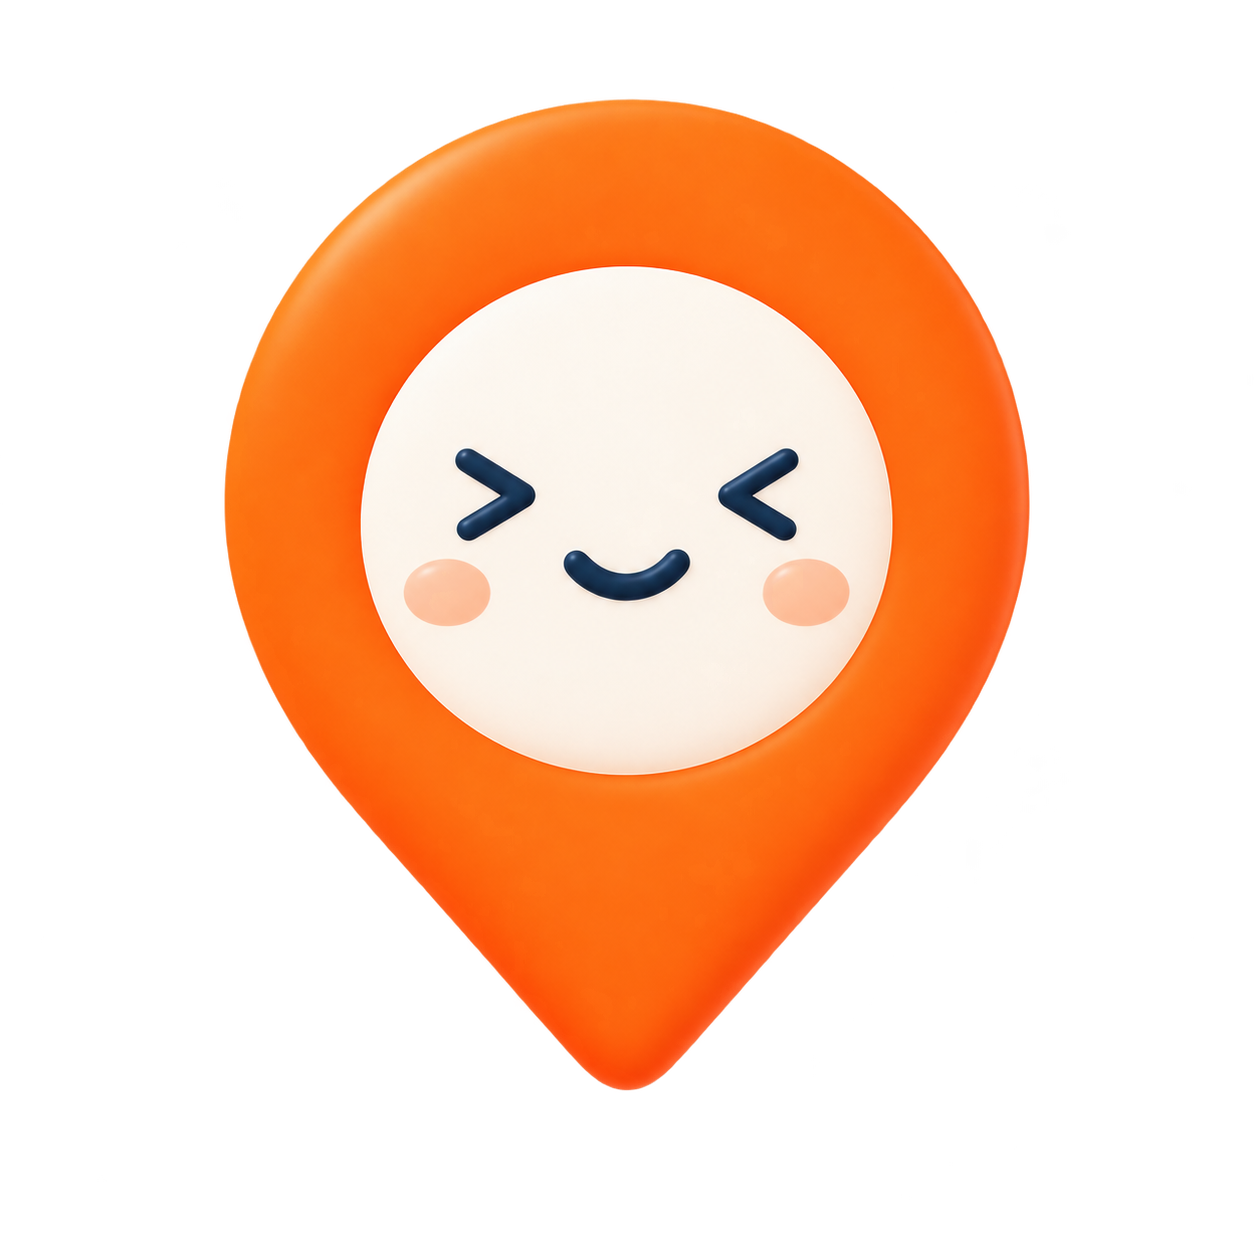
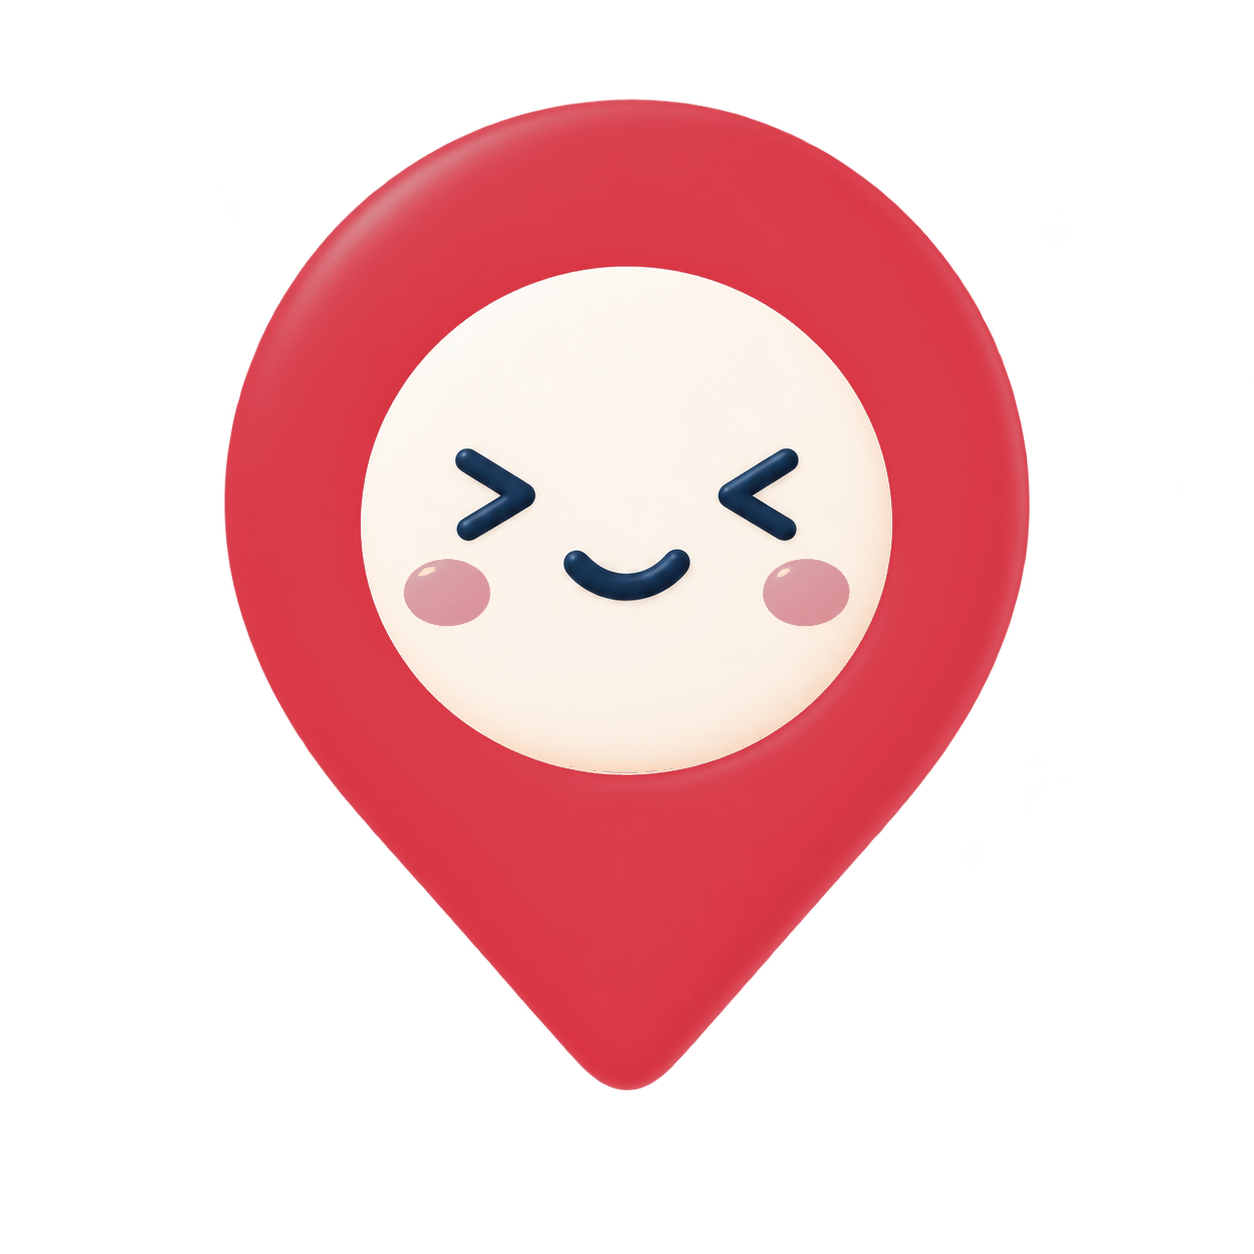
[S15P21E201-1343] fix: [FE] 그림에 구워진 옛 오렌지 — 마스코트는 다시 뽑고, 빈 화면 아이콘은 토큰이 덧입힌다
## 검사가 코드만 본다

배색 검사는 `.ts`·`.tsx` 만 읽는다. **그림 안에 구워진 색은 못 본다.** 그래서
오늘 로고의 핀은 동백 빨강으로 다시 뽑았는데, **같은 핀 모양인 마스코트는 오렌지로
남아 있었다.** 한 화면에 빨간 핀과 주황 핀이 같이 뜬다.

눈으로도 잘 안 잡힌다 — 둘이 한 화면에 나란히 오는 자리가 드물고, 따로 보면 둘 다
멀쩡해 보인다.

## 그림 29개를 전부 재서 고를 것을 갈랐다

옛 오렌지 대역이 섞인 그림이 29개였는데, **대부분은 음식 사진과 삽화**다. 그건
배색이 아니라 피사체의 색이라 건드리지 않는다. 배색인 것은 둘뿐이었다.

  마스코트 셋            몸통이 옛 오렌지 핀 (#FB6A10)
  내 여행 빈 화면 아이콘  픽셀 100%가 옛 브랜드 오렌지 (#F26532)

## 고치는 방법을 둘로 나눈 이유

**아이콘은 그림을 안 고쳤다.** 한 색짜리 실루엣이라 코드에서 색을 덧입힐 수 있다
(`tintColor: color.text.muted`). 그러면 **그림이 토큰을 따라오게 된다** — 다음
배색 전환 때 또 남지 않는다. 그림을 다시 뽑으면 그때 또 손으로 찾아야 한다.

**마스코트는 여러 색이라 덧입히면 뭉개진다.** 오렌지 대역만 골라 색조를 옮기고
음영은 비율로 보존했다 — 얼굴의 크림색, 남색 눈, 볼터치는 그대로 두고 몸통만 옮겼다.

실측: 바뀐 뒤 몸통 최빈색 #D93A48·#DB3B49·#DA3A48 (목표 #D83A48, HSV 왕복 반올림
오차 1~3). 셋 다 화면에 띄워 눈으로도 확인했다.

## 안 고친 것 — 다음 사람이 다시 재지 않게

`surface.card` 바탕에 선이 남은 style 이 105곳(파일 57개)이다. 시안은 「카드에 선
없음」이라고 했지만, 세어 보니 **대부분이 입력칸·칩**이고 시안은 그쪽 선은 허용한다
(`surface.field` = 입력 선·미선택 칩 선). 카드와 입력칸을 기계로 가를 방법이 없어
검사로 만들지 않았고, 한 자리만 고치면 들쭉날쭉해져서 그대로 뒀다. **확인 못 함.**

Changed region(s): [[0.1555, 0.0622, 0.8397, 0.8708]]

diff --git a/frontend/app/(tabs)/trips.tsx b/frontend/app/(tabs)/trips.tsx
@@ -194,7 +194,7 @@ const styles = StyleSheet.create({
   shell: { flex: 1, backgroundColor: color.brand.ivory }, canvas: { backgroundColor: color.brand.ivory },
   header: { marginTop: spacing[6], flexDirection: 'row', alignItems: 'flex-start', justifyContent: 'space-between', gap: spacing[3] }, headerCopy: { flex: 1, minWidth: 0 }, title: { marginTop: spacing[1], marginBottom: spacing[2] }, headerActions: { gap: spacing[2] }, newTrip: { width: 96, minHeight: 44, flexShrink: 0 },
   feedback: { minHeight: 48, marginTop: spacing[4], paddingHorizontal: spacing[4], borderRadius: radius.md, backgroundColor: color.brand.navy, flexDirection: 'row', alignItems: 'center', justifyContent: 'space-between', gap: spacing[3] }, state: { minHeight: 220, alignItems: 'center', justifyContent: 'center', gap: spacing[3] },
-  empty: { minHeight: 320, marginTop: spacing[6], padding: spacing[6], borderRadius: radius.lg, borderWidth: 1, borderColor: color.surface.field, backgroundColor: color.surface.card, alignItems: 'center', justifyContent: 'center', gap: spacing[3] }, emptyMark: { width: 68, height: 68, borderRadius: radius.full, backgroundColor: color.surface.tint, alignItems: 'center', justifyContent: 'center' }, emptyIcon: { width: 32, height: 32 }, center: { maxWidth: 300, textAlign: 'center' }, emptyCta: { minWidth: 180, marginTop: spacing[2], backgroundColor: color.brand.navy },
+  empty: { minHeight: 320, marginTop: spacing[6], padding: spacing[6], borderRadius: radius.lg, borderWidth: 1, borderColor: color.surface.field, backgroundColor: color.surface.card, alignItems: 'center', justifyContent: 'center', gap: spacing[3] }, emptyMark: { width: 68, height: 68, borderRadius: radius.full, backgroundColor: color.surface.tint, alignItems: 'center', justifyContent: 'center' }, emptyIcon: { width: 32, height: 32, tintColor: color.text.muted }, center: { maxWidth: 300, textAlign: 'center' }, emptyCta: { minWidth: 180, marginTop: spacing[2], backgroundColor: color.brand.navy },
   list: { marginTop: spacing[6], gap: spacing[3] }, card: { padding: spacing[4], borderRadius: radius.lg, borderWidth: 1, borderColor: color.surface.border, backgroundColor: color.surface.card, gap: spacing[3], shadowColor: color.brand.navy, shadowOpacity: 0.06, shadowRadius: 10, shadowOffset: { width: 0, height: 4 }, elevation: 2 }, cardPressed: { opacity: 0.72, transform: [{ scale: 0.99 }] }, cardTop: { flexDirection: 'row', alignItems: 'center', gap: spacing[3] }, cardCopy: { flex: 1, gap: spacing[1] }, meta: { flexDirection: 'row', flexWrap: 'wrap', gap: spacing[2] }, metaPill: { paddingHorizontal: spacing[3], paddingVertical: spacing[1], borderRadius: radius.full, backgroundColor: color.surface.soft },
   statusPillPending: { paddingHorizontal: spacing[3], paddingVertical: spacing[1], borderRadius: radius.full, backgroundColor: color.state.dangerBg, borderWidth: 1, borderColor: color.state.danger },
   cardActions: { flexDirection: 'row', alignItems: 'center', justifyContent: 'space-between', flexWrap: 'wrap', gap: spacing[2] },
